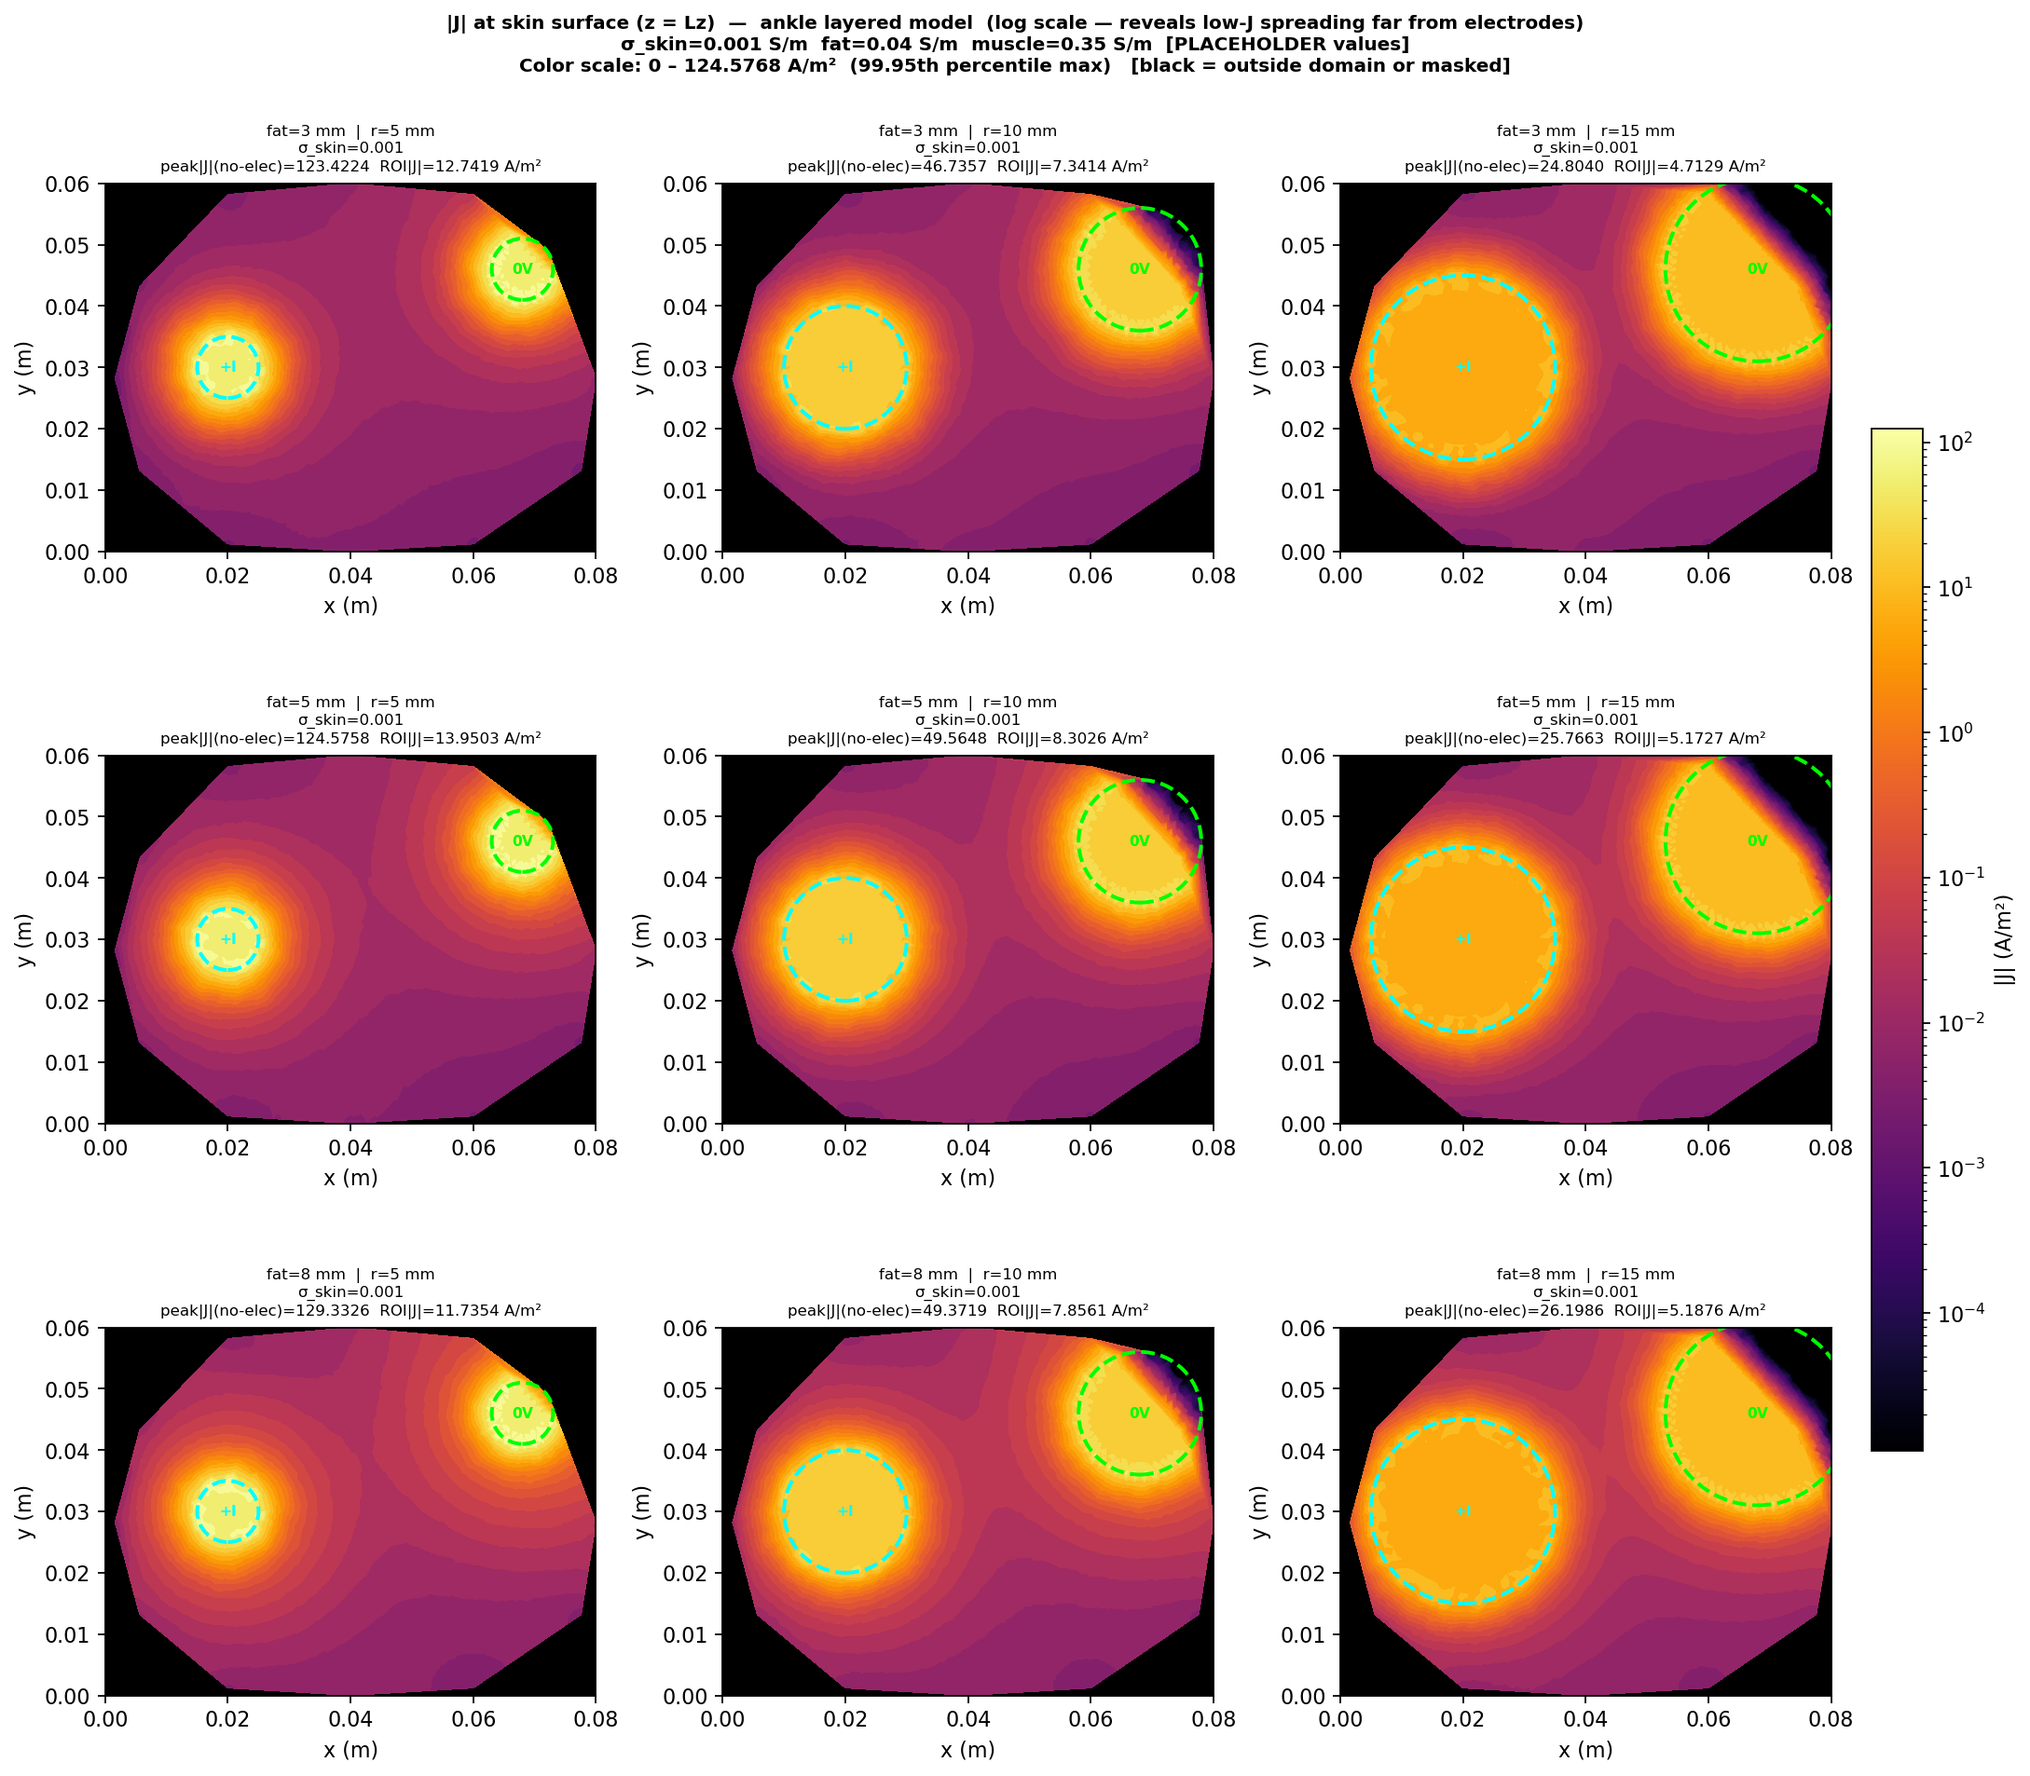
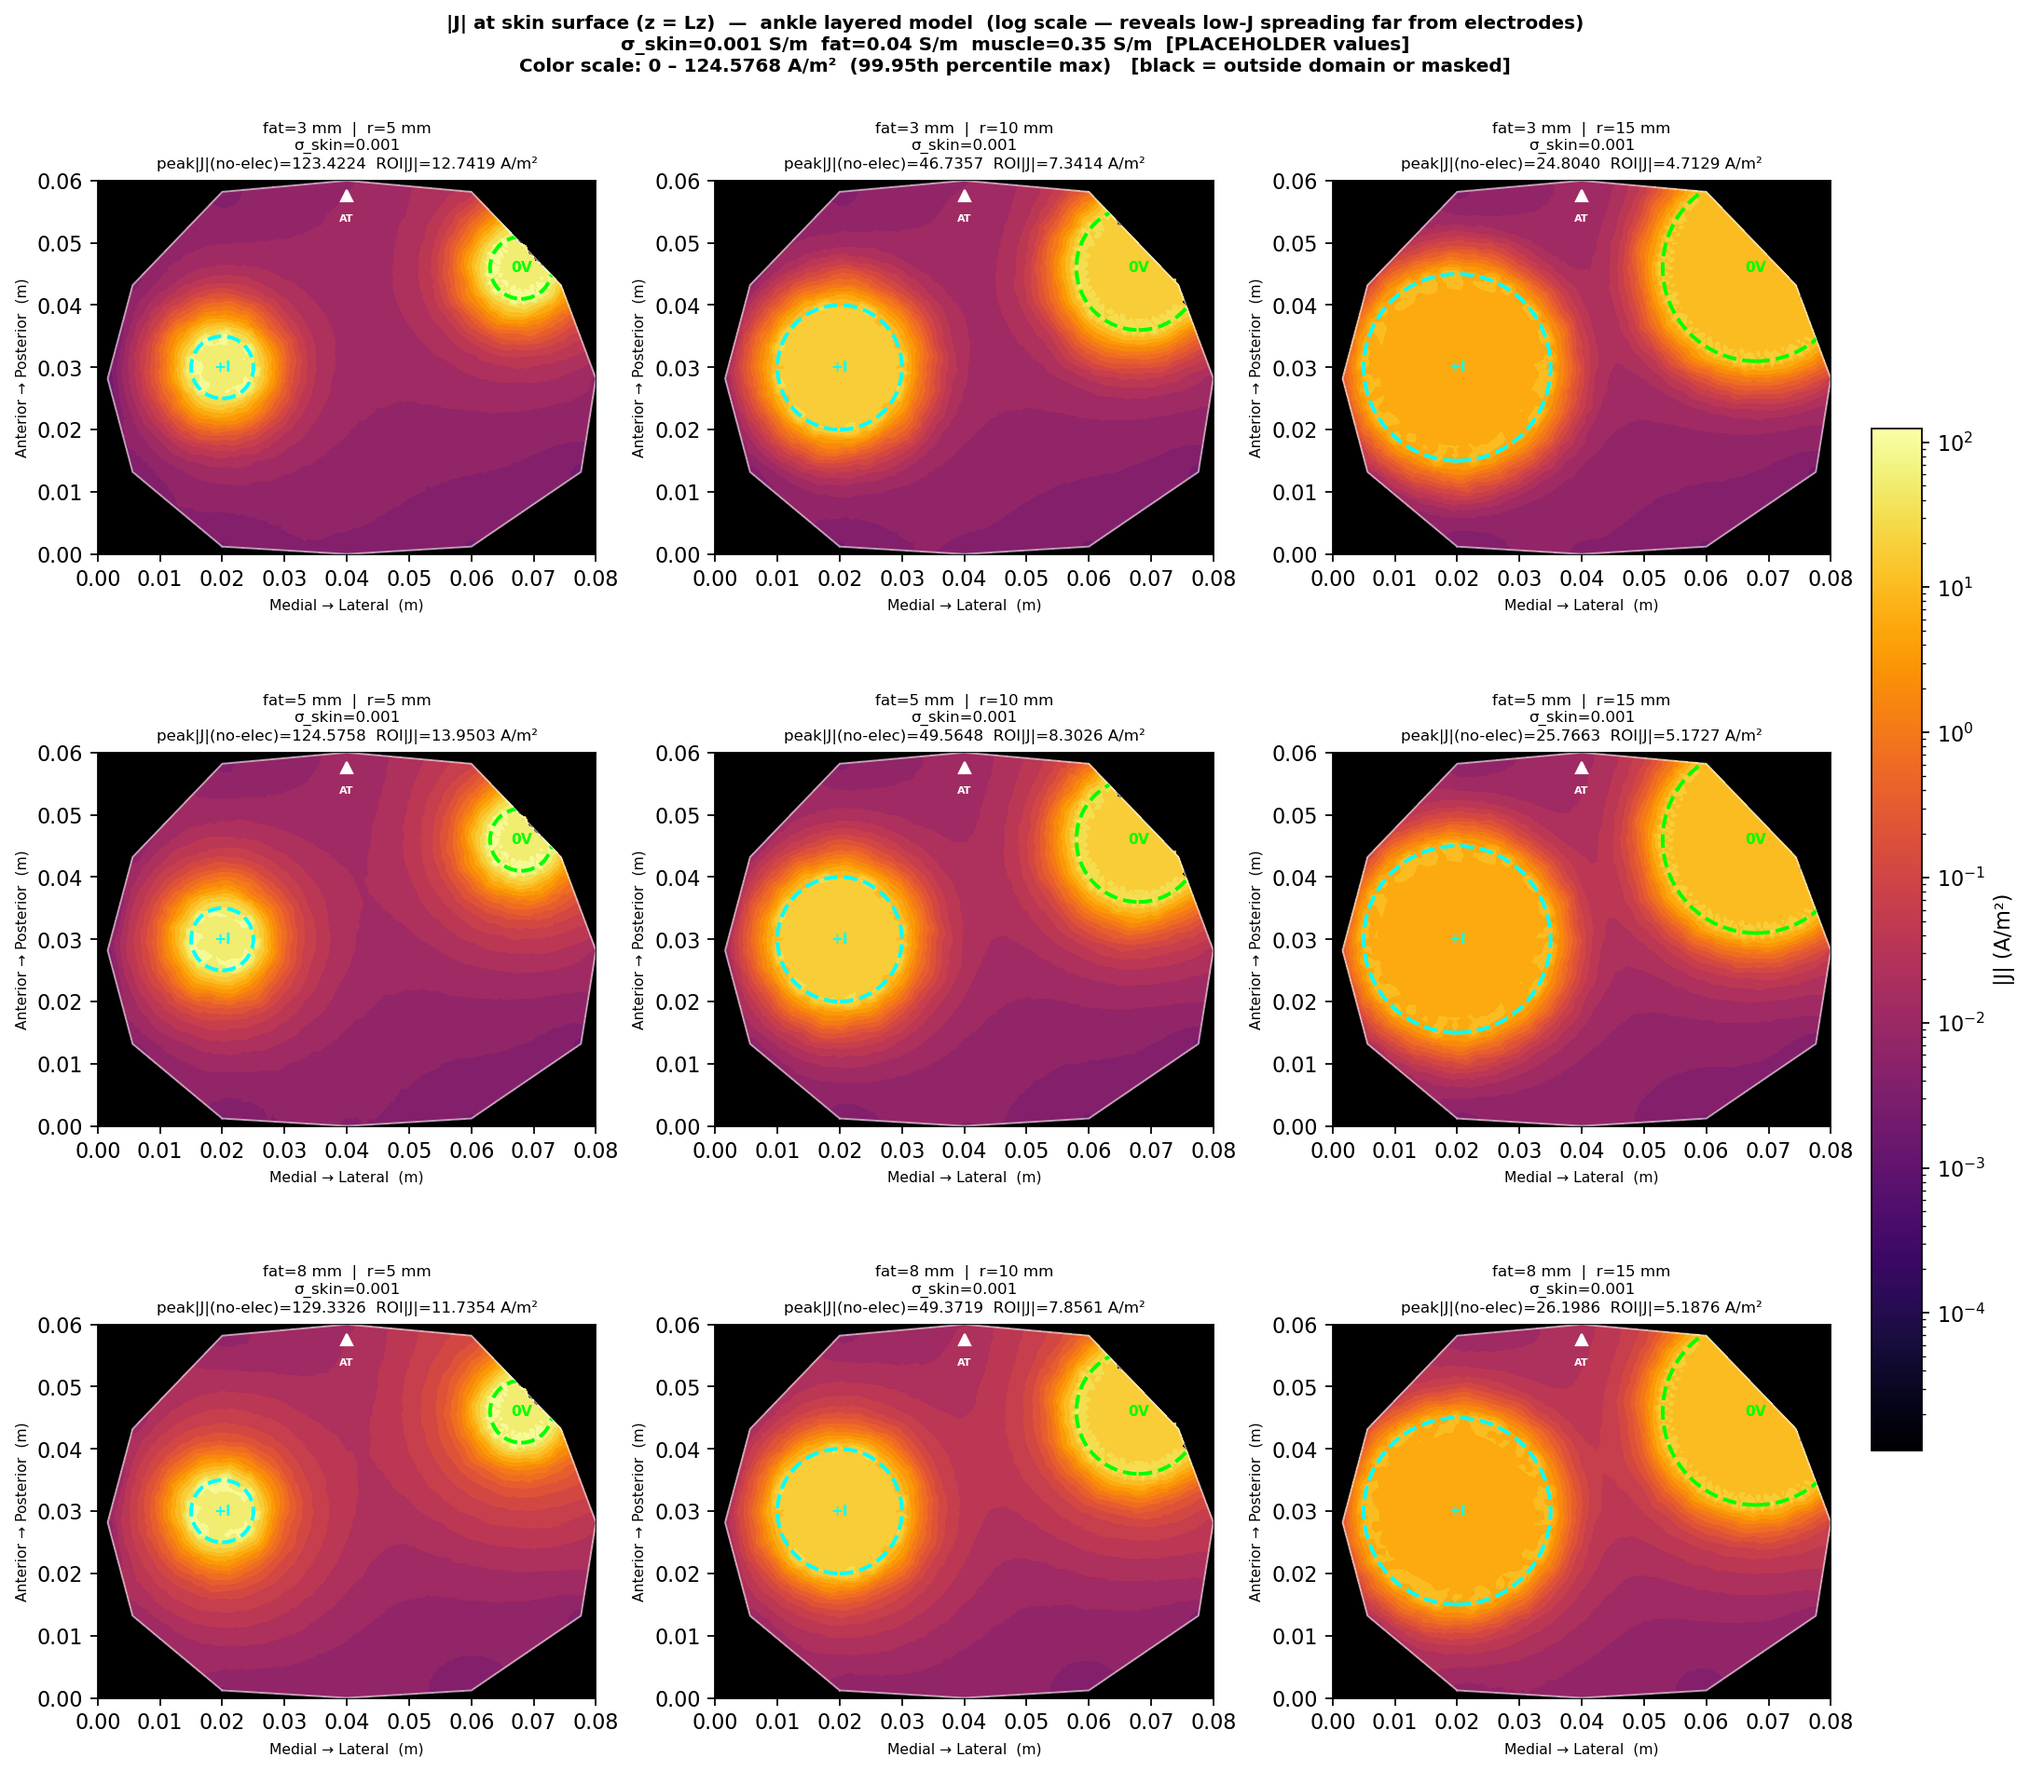
step03: ankle polygon outline, AT landmark, triangulation masking, electrode clip-to-boundary

diff --git a/step03_ankle_layers/plot_layered_results.py b/step03_ankle_layers/plot_layered_results.py
@@ -26,11 +26,49 @@ import matplotlib.pyplot as plt
 import matplotlib.colors as mcolors
 import matplotlib.tri as mtri
 import matplotlib.patches as mpatches
+from matplotlib.path import Path as MplPath
+from matplotlib.patches import PathPatch
 import pyvista as pv
 from pathlib import Path
 
 RESULTS_DIR = Path(__file__).parent / "results"
 PARAMS_FILE = Path(__file__).parent / "params.yaml"
+
+
+# ── Ankle outline (mirrors run_layered_sweep.py) ──────────────────────────────
+def ankle_outline_pts(Lx, Ly):
+    """
+    12-point ankle cross-section polygon (same as run_layered_sweep.py).
+    x = medial (0) → lateral (Lx).   y = anterior (0) → posterior (Ly).
+    P7 (0.50, 1.00) = posterior center ≈ Achilles tendon.
+    P10 (0.02, 0.47) = medial groove  ← active electrode.
+    P5  (0.93, 0.72) = posterior-lateral ← return electrode region.
+    """
+    frac = [
+        (0.25, 0.02),   # P0  anterior-medial
+        (0.50, 0.00),   # P1  anterior center
+        (0.75, 0.02),   # P2  anterior-lateral
+        (0.97, 0.22),   # P3  lateral-anterior
+        (1.00, 0.47),   # P4  lateral-mid
+        (0.93, 0.72),   # P5  posterior-lateral
+        (0.75, 0.97),   # P6  posterior-lateral end
+        (0.50, 1.00),   # P7  posterior center  ← Achilles tendon
+        (0.25, 0.97),   # P8  posterior-medial end
+        (0.07, 0.72),   # P9  medial-posterior
+        (0.02, 0.47),   # P10 medial groove
+        (0.07, 0.22),   # P11 medial-anterior
+    ]
+    return [(fx * Lx, fy * Ly) for fx, fy in frac]
+
+
+def _ankle_mpl_path(Lx, Ly):
+    """Return a closed matplotlib Path tracing the ankle polygon."""
+    pts = ankle_outline_pts(Lx, Ly)
+    pts_c = pts + [pts[0]]
+    codes = ([MplPath.MOVETO]
+             + [MplPath.LINETO] * (len(pts) - 1)
+             + [MplPath.CLOSEPOLY])
+    return MplPath(pts_c, codes)
 
 
 def load_params():
@@ -65,8 +103,9 @@ def plot_J_surface_maps(summary, p):
     radii   = sorted(set(r["elec_r_mm"] for r in summary))
     nrows, ncols = len(t_fats), len(radii)
 
-    g   = p["geometry"]
+    g     = p["geometry"]
     Lx, Ly, Lz = g["Lx"], g["Ly"], g["Lz"]
+    cross = g.get("cross_section", "rect")
     pl    = p.get("placement", p.get("electrodes", {}))
     shape = pl.get("electrode_shape", pl.get("shape", "circle"))
     e1x, e1y = pl.get("active_xy",
@@ -156,35 +195,71 @@ def plot_J_surface_maps(summary, p):
                 if isinstance(norm, mcolors.LogNorm):
                     valid = valid & (Jvals > 1e-12)
 
+                # ── Build ankle clip path (for masking triangles + electrode outlines) ─
+                a_path = _ankle_mpl_path(Lx, Ly) if cross == "ankle" else None
+
                 if valid.sum() < 3:
                     ax.text(0.5, 0.5, "no valid data", transform=ax.transAxes,
                             ha="center", va="center", color="white")
                 else:
                     try:
                         tri = mtri.Triangulation(xp[valid], yp[valid])
+                        # Mask triangles whose centroid falls outside the ankle polygon
+                        if a_path is not None:
+                            cx_ = xp[valid][tri.triangles].mean(axis=1)
+                            cy_ = yp[valid][tri.triangles].mean(axis=1)
+                            outside = ~a_path.contains_points(
+                                np.column_stack([cx_, cy_]))
+                            tri.set_mask(outside)
                         ax.tricontourf(tri, Jvals[valid], levels=levels,
                                        cmap=_cmap, norm=norm, extend="both")
                     except Exception:
                         ax.scatter(xp[valid], yp[valid], c=Jvals[valid],
                                    cmap=_cmap, norm=norm, s=4)
 
+                # ── Draw ankle outline ──────────────────────────────────────────────
+                if a_path is not None:
+                    apt = ankle_outline_pts(Lx, Ly)
+                    xs_ = [q[0] for q in apt] + [apt[0][0]]
+                    ys_ = [q[1] for q in apt] + [apt[0][1]]
+                    ax.plot(xs_, ys_, color="white", lw=0.9, alpha=0.55, zorder=3)
+
+                # ── Electrode outlines — clipped to ankle boundary ──────────────────
                 r_m = r_mm / 1000.0
+                # Build clip patch from ankle polygon (clips patches that extend outside)
+                clip_patch = (PathPatch(a_path, transform=ax.transData)
+                              if a_path is not None else None)
+
                 for (xc, yc), lbl, clr in [
                         ((e1x, e1y), "+I", "cyan"),
                         ((e2x, e2y), "0V", "lime")]:
                     if shape == "circle":
-                        ax.add_patch(plt.Circle((xc, yc), r_m, fill=False,
-                                                edgecolor=clr, lw=1.8, ls="--"))
+                        patch = plt.Circle((xc, yc), r_m, fill=False,
+                                           edgecolor=clr, lw=1.8, ls="--", zorder=4)
                     else:
-                        ax.add_patch(mpatches.Rectangle(
+                        patch = mpatches.Rectangle(
                             (xc - r_m, yc - r_m), 2*r_m, 2*r_m,
-                            fill=False, edgecolor=clr, lw=1.8, ls="--"))
+                            fill=False, edgecolor=clr, lw=1.8, ls="--", zorder=4)
+                    ax.add_patch(patch)
+                    if clip_patch is not None:
+                        patch.set_clip_path(clip_patch)
                     ax.text(xc, yc, lbl, ha="center", va="center",
-                            color=clr, fontsize=7, fontweight="bold")
+                            color=clr, fontsize=7, fontweight="bold", zorder=5)
+
+                # ── Achilles tendon landmark ────────────────────────────────────────
+                # P7 (0.50, 1.00) = posterior center = Achilles tendon
+                at_x = Lx * 0.50
+                at_y = Ly * 0.96   # just inside posterior boundary
+                ax.plot(at_x, at_y, '^', color='white', ms=5,
+                        mfc='white', mew=1.0, zorder=5)
+                ax.text(at_x, at_y - Ly * 0.05, 'AT', ha='center', va='top',
+                        color='white', fontsize=5, fontweight='bold', zorder=5)
 
                 ax.set_xlim(0, Lx); ax.set_ylim(0, Ly)
                 ax.set_aspect("equal")
-                ax.set_xlabel("x (m)"); ax.set_ylabel("y (m)")
+                # Anatomical direction labels
+                ax.set_xlabel("Medial → Lateral  (m)", fontsize=7)
+                ax.set_ylabel("Anterior → Posterior  (m)", fontsize=7)
 
                 pk  = row.get("peak_J_skin_no_elec",
                               row.get("peak_J_skin", float("nan")))
